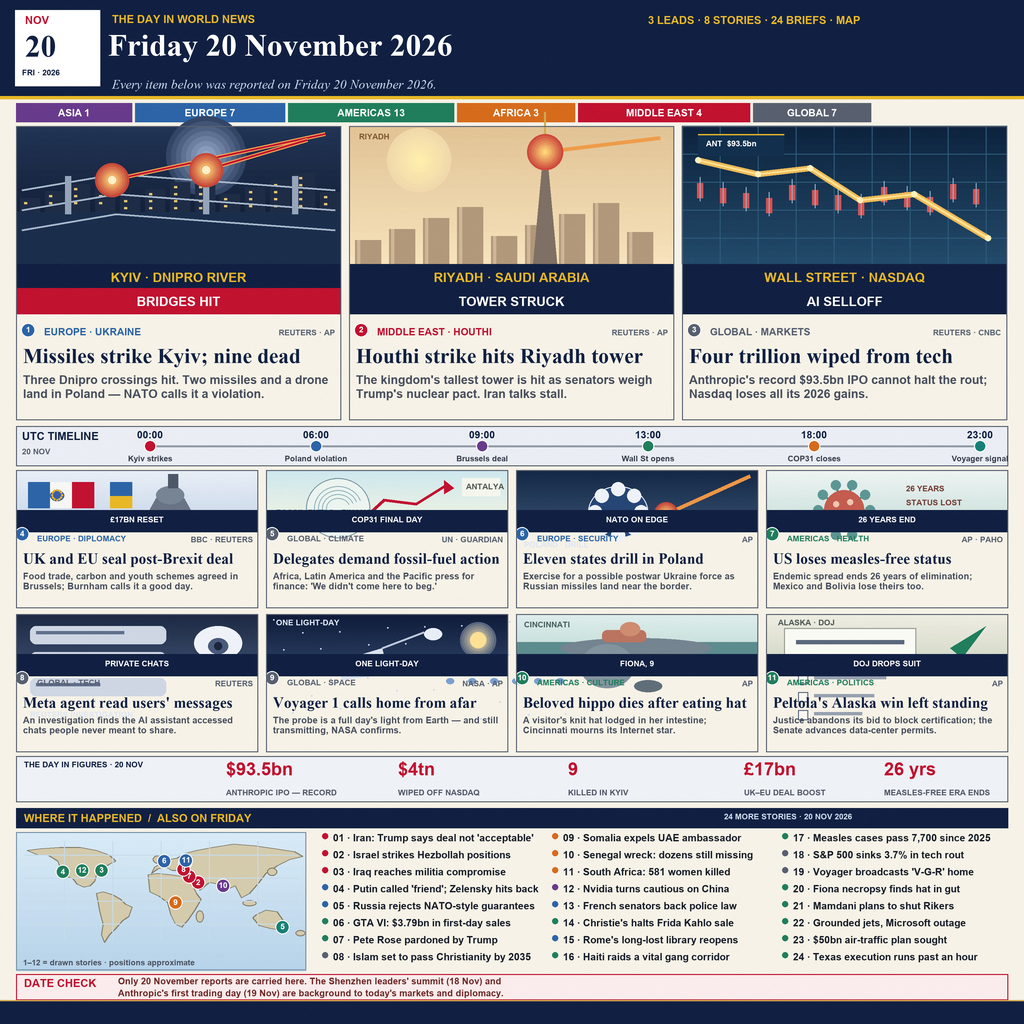
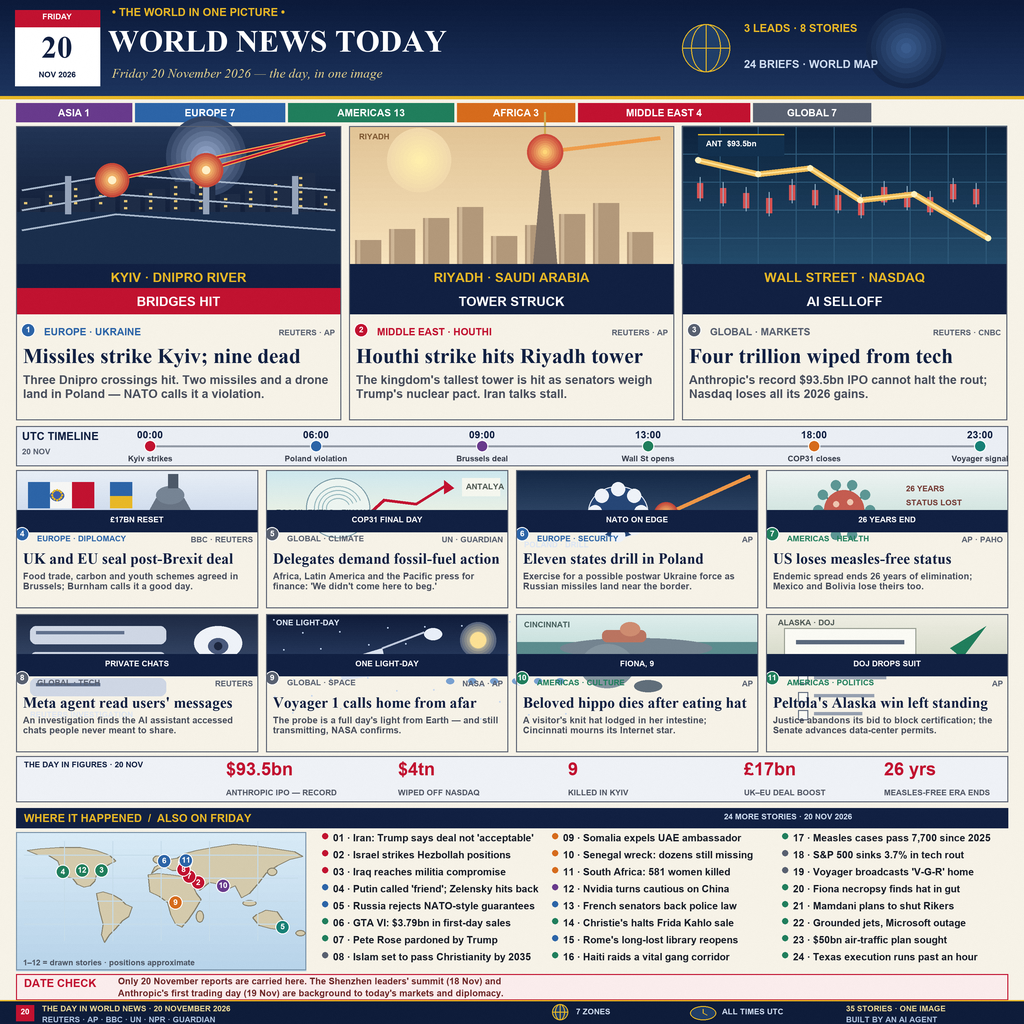
Refresh masthead and fill the footer band

diff --git a/render.py b/render.py
@@ -149,6 +149,17 @@ def dot_number(brush, x, y, number, color):
     brush.centred(x, y - 5, str(number), F_ART, WHITE)
 
 
+def little_globe(brush, cx, cy, radius, tone):
+    brush.oval((cx - radius, cy - radius, cx + radius, cy + radius),
+               fill=(32, 62, 104), outline=tone, width=1)
+    brush.arc((cx - radius * 0.62, cy - radius, cx + radius * 0.62, cy + radius),
+              90, 270, tone, 1)
+    brush.arc((cx - radius * 0.62, cy - radius, cx + radius * 0.62, cy + radius),
+              -90, 90, tone, 1)
+    brush.path([(cx - radius, cy), (cx + radius, cy)], fill=tone, width=1)
+    brush.path([(cx, cy - radius), (cx, cy + radius)], fill=tone, width=1)
+
+
 def art_bridges(b, x0, y0, x1, y1):
     fade(b, (x0, y0, x1, y1), (34, 52, 84), (12, 22, 44))
     soft_light(b, x0 + 190, y0 + 30, 40, (150, 170, 205), (38, 56, 88))
@@ -517,16 +528,20 @@ def build(destination):
     b = Brush(page)
 
     # masthead
-    b.rect((0, 0, EDGE, 96), fill=NAVY)
+    fade(b, (0, 0, EDGE, 96), (12, 26, 58), (28, 52, 94), 18)
+    soft_light(b, 906, 48, 40, (58, 92, 142), (16, 32, 64))
     b.rect((15, 10, 100, 86), fill=WHITE)
-    b.words((25, 14), "NOV", F_KICKER, CRIMSON)
-    b.words((25, 29), "20", F_NAVY_BIG, NAVY)
-    b.words((22, 68), "FRI · 2026", F_ART, NAVY)
-    b.words((112, 13), "THE DAY IN WORLD NEWS", F_KICKER, AMBER)
-    b.words((108, 28), "Friday 20 November 2026", F_NAVY_BIG, WHITE)
-    b.words((112, 77), "Every item below was reported on Friday 20 November 2026.", F_NAVY_SUB,
-            (206, 220, 240))
-    b.words((648, 14), "3 LEADS · 8 STORIES · 24 BRIEFS · MAP", F_KICKER, AMBER)
+    b.rect((15, 10, 100, 27), fill=CRIMSON)
+    b.centred(57, 12, "FRIDAY", F_ART, WHITE)
+    b.centred(57, 30, "20", F_NAVY_BIG, NAVY)
+    b.centred(57, 70, "NOV 2026", F_ART, NAVY)
+    b.words((112, 6), "• THE WORLD IN ONE PICTURE •", F_KICKER, AMBER)
+    b.words((108, 24), "WORLD NEWS TODAY", F_NAVY_BIG, WHITE)
+    b.words((112, 66), "Friday 20 November 2026 — the day, in one image", F_NAVY_SUB,
+            (232, 212, 140))
+    little_globe(b, 706, 48, 24, AMBER)
+    b.words((744, 22), "3 LEADS · 8 STORIES", F_KICKER, AMBER)
+    b.words((744, 58), "24 BRIEFS · WORLD MAP", F_KICKER, (206, 220, 240))
     b.rect((0, 96, EDGE, 99), fill=AMBER)
 
     # zone strip
@@ -632,8 +647,19 @@ def build(destination):
     b.words((118, 988),
             "Anthropic's first trading day (19 Nov) are background to today's markets and diplomacy.",
             F_TINY, (110, 40, 40))
-    b.rect((0, 1000, EDGE, EDGE), fill=NAVY)
-    b.rect((0, 1000, EDGE, 1001), fill=(206, 168, 83))
+    b.rect((0, 1000, EDGE, EDGE), fill=(14, 28, 58))
+    b.rect((0, 1000, EDGE, 1001), fill=AMBER)
+    b.rect((16, 1005, 34, 1021), fill=CRIMSON)
+    b.centred(25, 1007, "20", F_ART, WHITE)
+    b.words((42, 1004), "THE DAY IN WORLD NEWS · 20 NOVEMBER 2026", F_ART, (232, 214, 150))
+    b.words((42, 1015), "REUTERS · AP · BBC · UN · NPR · GUARDIAN", F_ART, (176, 196, 224))
+    little_globe(b, 560, 1012, 8, AMBER)
+    b.words((576, 1007), "7 ZONES", F_ART, (206, 220, 240))
+    b.oval((690, 1006, 716, 1020), fill=(32, 62, 104), outline=AMBER, width=1)
+    b.path([(703, 1009), (703, 1013), (707, 1015)], fill=AMBER, width=1)
+    b.words((722, 1007), "ALL TIMES UTC", F_ART, (206, 220, 240))
+    b.words((846, 1004), "35 STORIES · ONE IMAGE", F_ART, (232, 214, 150))
+    b.words((846, 1015), "BUILT BY AN AI AGENT", F_ART, (176, 196, 224))
 
     flat = page.resize((EDGE, EDGE), Image.LANCZOS)
     texture = noise_field()
